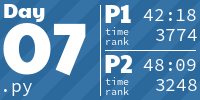
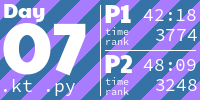
Add day 7

diff --git a/2022/07/07.kt b/2022/07/07.kt
@@ -1,0 +1,33 @@
+data class Tree(val name: String, var parent: Tree?) {
+    var size: Int = 0
+    val children: MutableList<Tree> = mutableListOf()
+}
+
+fun main() {
+    val shell = generateSequence(::readlnOrNull).toList()
+        .map { it.replace("$ ", "") }
+        .filter { it != "ls" }
+    val root = Tree("/", null)
+    var current = root
+    for (line in shell) {
+        var (command, arg) = line.split(" ")
+        when (command) {
+            "cd" -> when (arg) {
+                "/" -> current = root
+                ".." -> current = current.parent!!
+                else -> current = current.children.filter { it.name == arg }.first()
+            }
+            "dir" -> current.children.add(Tree(arg, current))
+            else -> current.size += command.toInt()
+        }
+    }
+    val sizes: MutableList<Int> = mutableListOf()
+    fun recursiveSizes(tree: Tree): Int {
+        sizes.add(tree.size + tree.children.sumOf(::recursiveSizes) )
+        return sizes.last()
+    }
+    recursiveSizes(root)
+    println(sizes.filter { it <= 100000 }.sum())
+    val needed = 30000000 - (70000000 - sizes.max())
+    println(sizes.filter { it >= needed }.min())
+}

diff --git a/README.md b/README.md
@@ -24,7 +24,7 @@
 <a href="2022/06/06.kt">
   <img src="Media/2022/06.png" width="161px">
 </a>
-<a href="2022/07/07.py">
+<a href="2022/07/07.kt">
   <img src="Media/2022/07.png" width="161px">
 </a>
 <h1 align="center">
